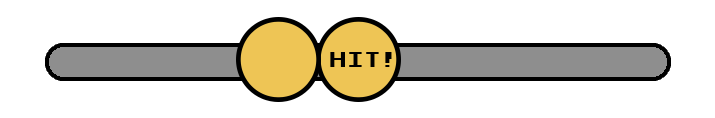
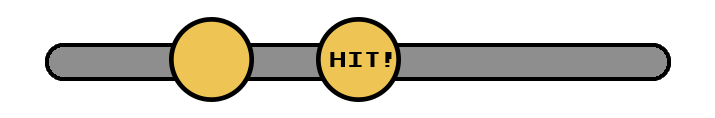
added basic metronome

Changed region(s): [[0.2154, 0.1271, 0.4615, 0.8644]]

diff --git a/main.py b/main.py
@@ -69,17 +69,7 @@ class DeathScreen:
 class BeatBar(pygame.sprite.Sprite):
     def __init__(self, pos_x, pos_y):
         super().__init__()
-        self.sprites = []
-        self.sprites.append(pygame.image.load('m_idle.png'))
-        self.sprites.append(pygame.image.load('m_1.png'))
-        self.sprites.append(pygame.image.load('m_2.png'))
-        self.sprites.append(pygame.image.load('m_3.png'))
-        self.sprites.append(pygame.image.load('m_4.png'))
-        self.sprites.append(pygame.image.load('m_hit.png'))
-        self.sprites.append(pygame.image.load('m_5.png'))
-        self.sprites.append(pygame.image.load('m_6.png'))
-        self.sprites.append(pygame.image.load('m_7.png'))
-        self.sprites.append(pygame.image.load('m_8.png'))
+
         self.current_sprite = 0
         self.image = self.sprites[self.current_sprite]
 
@@ -91,7 +81,19 @@ class Game:
     def __init__(self):
         pygame.init()
         # Template Music
-
+        self.sprites = []
+        self.sprites.append(pygame.image.load('m_idle.png'))
+        self.sprites.append(pygame.image.load('m_1.png'))
+        self.sprites.append(pygame.image.load('m_2.png'))
+        self.sprites.append(pygame.image.load('m_3.png'))
+        self.sprites.append(pygame.image.load('m_4.png'))
+        self.sprites.append(pygame.image.load('m_hit.png'))
+        self.sprites.append(pygame.image.load('m_5.png'))
+        self.sprites.append(pygame.image.load('m_6.png'))
+        self.sprites.append(pygame.image.load('m_7.png'))
+        self.sprites.append(pygame.image.load('m_8.png'))
+        self.sprites.append(pygame.image.load('m_hit_1.png'))
+        self.sprites.append(pygame.image.load('m_hit_2.png'))
         self.scroll = 0
         pygame.mixer.init()
         music = pygame.mixer.music.load('menu.ogg')
@@ -114,13 +116,36 @@ class Game:
             self.screen.blit(img, (i * 50 + HEIGHT / 4 - 3 * 50, 20))
 
 
+    def BoogieBar(self):
+        if 0 <= self.level.player.move_counter < 3:
+            self.screen.blit(self.sprites[0], (200, 500))
+        elif 5 <= self.level.player.move_counter < 10:
+            self.screen.blit(self.sprites[1], (200, 500))
+        elif 10 <= self.level.player.move_counter < 15:
+            self.screen.blit(self.sprites[2], (200, 500))
+        elif 15 <= self.level.player.move_counter < 20:
+            self.screen.blit(self.sprites[3], (200, 500))
+        elif 20 <= self.level.player.move_counter < 25:
+            self.screen.blit(self.sprites[4], (200, 500))
+        elif 25 <= self.level.player.move_counter < 28:
+            self.screen.blit(self.sprites[5], (200, 500))
+        elif self.level.player.move_counter == 28:
+            # HIT!
+            self.screen.blit(self.sprites[10], (200, 500))
+        elif self.level.player.move_counter == 29:
+            # HIT!
+            self.screen.blit(self.sprites[11], (200, 500))
+        elif self.level.player.move_counter == 30:
+            # HIT!
+            self.screen.blit(self.sprites[10], (200, 500))
+        else:
+            self.screen.blit(self.sprites[0], (200, 500))
     def run(self):
         while True:
             for event in pygame.event.get():
                 if event.type == pygame.QUIT:
                     pygame.quit()
                     sys.exit()
-
                 if self.menu.active:
                     self.menu.handle_event(event)
                 elif self.death_screen.active:
@@ -168,6 +193,7 @@ class Game:
                     continue
                      #play level 4 track
                 self.level.run()
+                self.BoogieBar()
                 if self.level.player.curr_hp == 0:
                     self.unload_level()
                     pygame.mixer.music.stop()
